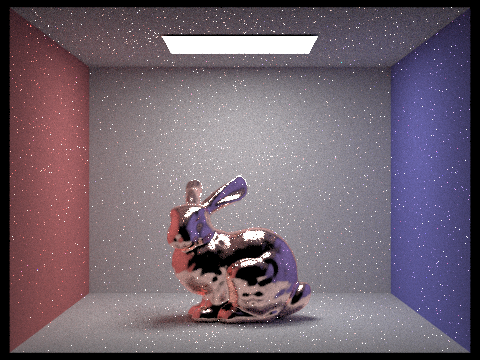
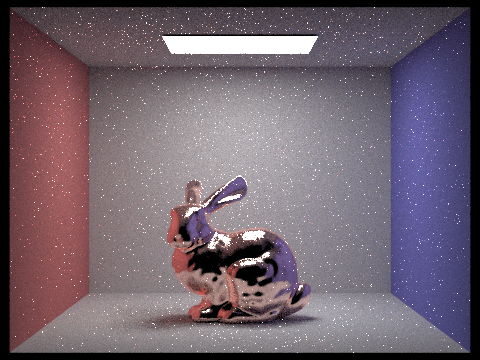
og thingy

diff --git a/src/bsdf.cpp b/src/bsdf.cpp
@@ -80,6 +80,8 @@ Spectrum MicrofacetBSDF::sample_f(const Vector3D& wo, Vector3D* wi, float* pdf) 
   // *Importance* sample Beckmann normal distribution function (NDF) here.
   // Note: You should fill in the sampled direction *wi and the corresponding *pdf,
   //       and return the sampled BRDF value.
+	*wi = cosineHemisphereSampler.get_sample(pdf); //placeholder
+	return MicrofacetBSDF::f(wo, *wi);
 	Vector2D r = this->sampler.get_sample();
 	float thetaH = atan(sqrt(-alpha*alpha*log(1. - r.x)));
 	float phiH = 2. * PI*r.y;
